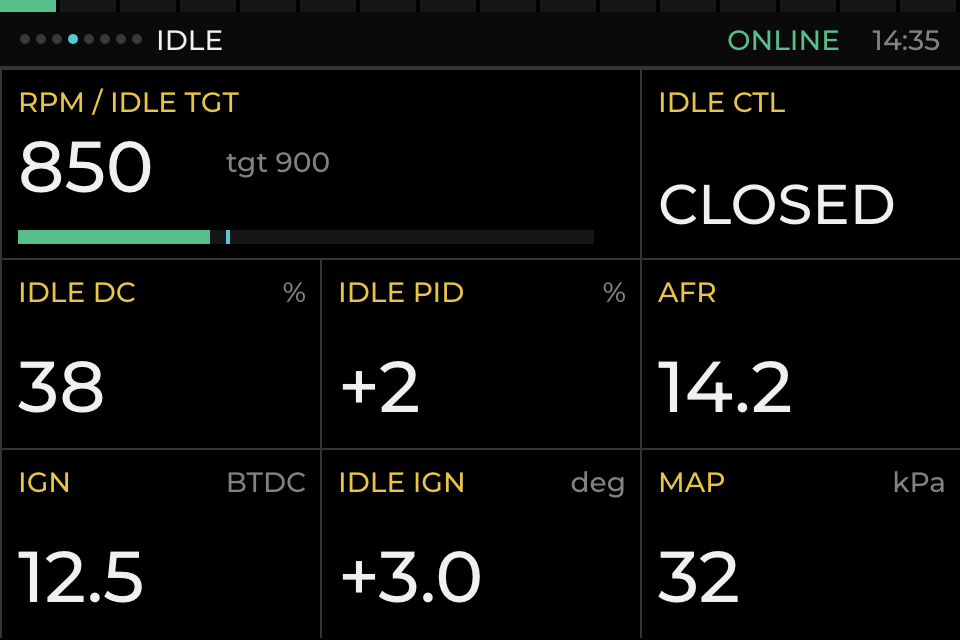
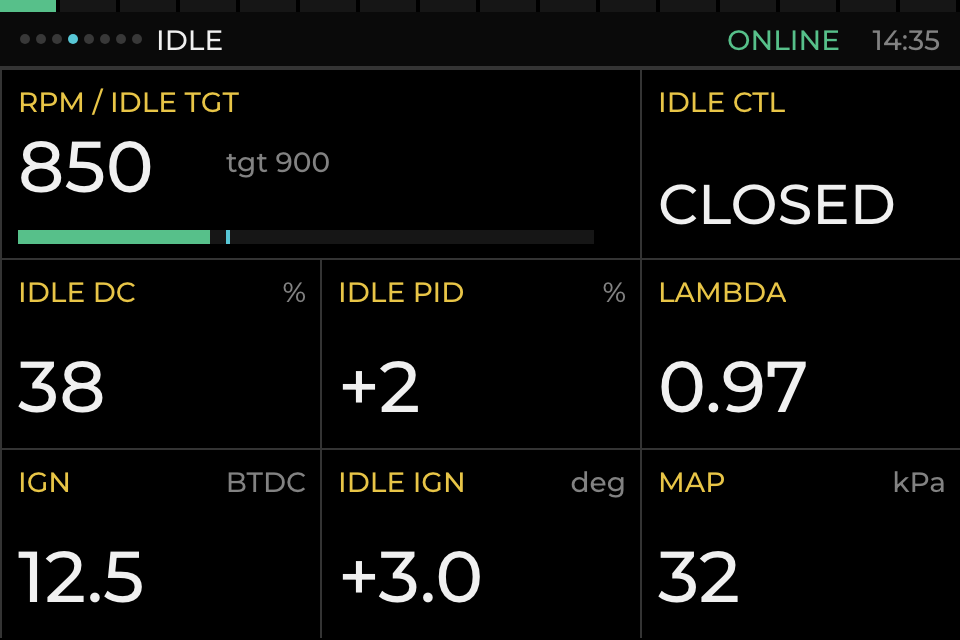
Redraw the mockups, describe the new cells, list what to test on the car
Diag's last trigger error moves onto the Errors row; a third line ran into
the CEL heading.

Changed region(s): [[0.6875, 0.5625, 0.8438, 0.6562], [0.6875, 0.4375, 0.8125, 0.4688]]

diff --git a/docs/mockup/render.py b/docs/mockup/render.py
@@ -156,8 +156,8 @@ def drive_page(rpm, rpm_fill, boost, mapkpa, boost_fill, clt, oil, lam, batt, oi
        label(302,12,"BOOST",14,CAPTION),
        label(302,32,boost,36,TEXT),
        label(302,76,f"bar&nbsp; MAP {mapkpa} kPa",14,DIM),
-       bar(302,94,162,10,min(74,74+boost_fill),abs(boost_fill),CYAN,marks=((74,1,DIM),(132,2,WARN))),
-       label(302,114,"Peak +1.06 bar",14,DIM),
+       bar(302,94,162,10,min(74,74+boost_fill),abs(boost_fill),CYAN,marks=((74,1,DIM),(124,2,WARN))),
+       label(302,114,"Peak +0.68 bar",14,DIM),
        tile(0,156,120,130,"CLT","C",clt,36),
        tile(120,156,120,130,"OIL P","bar",oil,36,sev=oil_sev),
        tile(240,156,120,130,"LAMBDA","",lam,36),
@@ -166,7 +166,7 @@ def drive_page(rpm, rpm_fill, boost, mapkpa, boost_fill, clt, oil, lam, batt, oi
 
 boards["Drive.dc.html"]=doc("DRIVE",
     "".join(chrome(("DRIVE",0), latch="! 2", clock="14:32", lit=7))
-    + drive_page("3450",150,"+0.84","184",50,"96","4.1","0.88","14.2"))
+    + drive_page("3450",150,"+0.62","164",46,"96","4.1","0.82","14.2"))
 
 boards["Parked.dc.html"]=doc("PARKED",
     "".join(chrome(("DRIVE",0), link=("OFFLINE",CRIT), alarm="ENGINE OFF",
@@ -174,13 +174,12 @@ boards["Parked.dc.html"]=doc("PARKED",
     + drive_page("0",0,"+0.00","100",0,"88","0.0","1.00","12.4",oil_sev="crit"))
 
 # ---------------- TUNE --------------------------------------------------
-p=[hero(0,0,"AFR / TARGET","","14.2","tgt 14.7",(144,-30,WARN),((144,1,DIM),))]
-p[0]=hero(0,0,"AFR / TARGET","","14.2","tgt 14.7",(114,30,GOOD),((144,1,DIM),))
-p.append(tile(COL*2,0,COL,ROW,"KNOCK","V","1.2",36))
+p=[hero(0,0,"LAMBDA / TARGET","","0.82","tgt 0.80",(144,24,GOOD),((144,1,DIM),))]
+p.append(tile(COL*2,0,COL,ROW,"KNOCK","x noise","0.24",36))
 p.append(tile(0,ROW,COL,ROW,"IGN","BTDC","18.5",36))
-p.append(tile(COL,ROW,COL,ROW,"INJ PW","ms","8.4",36))
+p.append(tile(COL,ROW,COL,ROW,"EGO CORR","%","-2.5",36))
 p.append(tile(COL*2,ROW,COL,ROW,"INJ DC","%","46",36))
-p.append(tile(0,ROW*2,COL,ROW,"MAP","kPa","184",36))
+p.append(tile(0,ROW*2,COL,ROW,"MAP","kPa","164",36))
 p.append(tile(COL,ROW*2,COL,ROW,"TPS","%","82",36))
 p.append(tile(COL*2,ROW*2,COL,ROW,"RPM","rpm","3450",36))
 boards["Tune.dc.html"]=doc("TUNE",
@@ -202,7 +201,7 @@ p=[hero(0,0,"RPM / IDLE TGT","","850","tgt 900",(0,96,GOOD),((104,2,CYAN),)),
    tile(COL*2,0,COL,ROW,"IDLE CTL","","CLOSED",28),
    tile(0,ROW,COL,ROW,"IDLE DC","%","38",36),
    tile(COL,ROW,COL,ROW,"IDLE PID","%","+2",36),
-   tile(COL*2,ROW,COL,ROW,"AFR","","14.2",36),
+   tile(COL*2,ROW,COL,ROW,"LAMBDA","","0.97",36),
    tile(0,ROW*2,COL,ROW,"IGN","BTDC","12.5",36),
    tile(COL,ROW*2,COL,ROW,"IDLE IGN","deg","+3.0",36),
    tile(COL*2,ROW*2,COL,ROW,"MAP","kPa","32",36)]
@@ -210,16 +209,16 @@ boards["Main.dc.html"]=doc("IDLE",
     "".join(chrome(("IDLE",3), clock="14:35", lit=1)) + page_wrap(p))
 
 # ---------------- BOOST -------------------------------------------------
-p=[hero(0,0,"MAP / BOOST TGT","kPa","224","tgt 220",(0,224,GOOD),((220,2,CYAN),)),
+p=[hero(0,0,"MAP / BOOST TGT","kPa","164","tgt 160",(0,215,GOOD),((209,2,CYAN),)),
    tile(COL*2,0,COL,ROW,"BOOST SET","","1",36),
    tile(0,ROW,COL,ROW,"BOOST DC","%","62",36),
    tile(COL,ROW,COL,ROW,"BOOST PID","%","+4",36),
    tile(COL*2,ROW,COL,ROW,"ERR COR","%","-1",36),
    tile(0,ROW*2,COL,ROW,"RPM","rpm","5820",36),
    tile(COL,ROW*2,COL,ROW,"TPS","%","100",36),
-   tile(COL*2,ROW*2,COL,ROW,"AFR","","11.8",36)]
+   tile(COL*2,ROW*2,COL,ROW,"LAMBDA","","0.80",36)]
 boards["Boost.dc.html"]=doc("BOOST",
-    "".join(chrome(("BOOST",4), alarm="KNOCK 2.4 V", alarm_color=WARN,
+    "".join(chrome(("BOOST",4), alarm="KNOCK 1.05", alarm_color=WARN,
                    latch="! 1", clock="14:41", lit=13)) + page_wrap(p))
 
 # ---------------- ALARMS ------------------------------------------------
@@ -229,7 +228,7 @@ cols=[(12,"TIME",None),(90,"SOURCE",None),(172,"VALUE",None),
 p=[frame(0,0,480,HDR,f"background: {BG}; border-bottom: 1px solid {LINE};")
    + "".join(label(x,TT,t,14,CAPTION,w=w,align="right" if w else "left") for x,t,w in cols)
    + "</div>"]
-events=[("14:41:02","KNOCK","2.4 V","5820","2.1 s","ACT","warn",True),
+events=[("14:41:02","KNOCK","1.05","5820","2.1 s","ACT","warn",True),
         ("14:38:51","OIL P","1.9 bar","6100","0.6 s","RTN","crit",False),
         ("14:33:10","INJ DC","94 %","6240","1.4 s","RTN","warn",False),
         ("14:21:44","LINK","stale","1180","3.0 s","RTN","warn",False),
@@ -254,7 +253,7 @@ p.append(frame(0,fy,480,FTR,f"background: {BG}; border-top: 1px solid {LINE};")
          + label(258,TT,"",14,DIM)
          + label(300,TT,"SINCE 13:59:04",14,DOTOFF,w=168,align="right") + "</div>")
 boards["Alarms.dc.html"]=doc("ALARMS",
-    "".join(chrome(("ALARMS",5), alarm="KNOCK 2.4 V", alarm_color=WARN,
+    "".join(chrome(("ALARMS",5), alarm="KNOCK 1.05", alarm_color=WARN,
                    latch="! 5", clock="14:41", lit=13)) + page_wrap(p))
 
 # ---------------- DIAG --------------------------------------------------
@@ -266,9 +265,9 @@ L=P
 p.append(label(L,P,"SERIAL LINK",14,CAPTION))
 for i,(n,v) in enumerate([("State","ONLINE"),("Age","12 ms"),("Updates","482 119"),("Bad frames","0")]):
     p.append(diag_row(L,P+18+i*RH2,n,v))
-p.append(label(L,P+94,"LATCHED THIS RUN",14,CAPTION))
-for i,t in enumerate(["OIL P 1.9 bar @ 6100","KNOCK 2.4 V @ 5820",""]):
-    p.append(label(L,P+112+i*14,t,14,DIM))
+p.append(label(L,P+94,"TRIGGER",14,CAPTION))
+p.append(diag_row(L,P+112,"Sync","SYNCED",GOOD))
+p.append(diag_row(L,P+112+RH2,"Errors","1  MISSING TOOTH",WARN))
 p.append(label(L,P+162,"CEL FLAGS",14,CAPTION))
 p.append(diag_row(L,P+180,"Raw","0x0000"))
 for i,n in enumerate(["CLT","IAT","MAP","WBO","EGT1","EGT2","EGT AL","KNOCK","FF SENS","DBW","FPR"]):
@@ -277,12 +276,12 @@ R2=CW+P
 p.append(label(R2,P,"PEAKS THIS RUN",14,CAPTION))
 peaks=[("RPM max","6240"),("MAP max","224"),("CLT max","103"),("IAT max","44"),
        ("Oil P max","5.2"),("Oil P min","1.9"),("Fuel P max","3.4"),("Fuel P min","2.9"),
-       ("Lambda min","0.78"),("Knock max","2.4"),("Inj DC max","94")]
+       ("Lambda min","0.78"),("Knock max","0.31"),("Inj DC max","94")]
 for i,(n,v) in enumerate(peaks):
     p.append(diag_row(R2,P+18+i*RH2,n,v))
 p.append(label(R2,P+208,"SERVICE AP",14,CAPTION))
 p.append(diag_row(R2,P+226,"Network","EcuDash"))
-p.append(diag_row(R2,P+243,"Key","carina1g"))
+p.append(diag_row(R2,P+243,"Key","ecudash1"))
 boards["Diag.dc.html"]=doc("DIAG",
     "".join(chrome(("DIAG",6), latch="! 5", clock="14:44")) + page_wrap(p))
 
@@ -290,7 +289,7 @@ boards["Diag.dc.html"]=doc("DIAG",
 STRIP=24; CATW=110; CATH=44; RW=480-CATW; SRH=32
 p=[frame(0,0,480,STRIP,f"background: {BG}; border-bottom: 1px solid {LINE};")
    + midlabel(10,0,STRIP,"STORED IN FLASH",14,DIM)
-   + midlabel(0,0,STRIP,f"{ARROW_UP} 5-12/18 {ARROW_DOWN}",14,DIM,w=480,align="center")
+   + midlabel(0,0,STRIP,f"{ARROW_UP} 5-12/20 {ARROW_DOWN}",14,DIM,w=480,align="center")
    + midlabel(0,0,STRIP,"ENGINE OFF",14,DIM,w=470,align="right") + "</div>"]
 p.append(frame(0,STRIP,CATW,286-STRIP,f"border-right: 1px solid {LINE};")+"</div>")
 cats=["Alarms","Limits","Shift","Display","Log"]
@@ -302,7 +301,7 @@ for i,name in enumerate(cats):
     p.append(midlabel(12,y,CATH,name,14,TEXT if sel else DIM))
 rows=[("Lean warn","0.90",""),("Lean crit","0.85",""),("Batt warn","12.2","V"),
       ("Batt crit","11.8","V"),("Charge warn","14.8","V"),("Charge crit","15.2","V"),
-      ("Knock warn","2.0","V"),("Knock crit","3.0","V")]
+      ("Knock warn","0.70","x"),("Knock crit","1.00","x")]
 for i,(n,v,u) in enumerate(rows):
     y=STRIP+i*SRH
     p.append(frame(CATW,y,RW,SRH,f"border-bottom: 1px solid {LINE};")+"</div>")

diff --git a/src/diagnostics/diagnostic_screen.cpp b/src/diagnostics/diagnostic_screen.cpp
@@ -64,11 +64,9 @@ void DiagnosticScreen::create(lv_obj_t* parent) {
     // unexpected missing tooth on 10 September.
     makeHeading(left, 94, "TRIGGER");
     sync_ = makeRow(left, 112, "Sync");
+    // The count and the last error share a row: a third line ran into the
+    // CEL heading below.
     triggerErrors_ = makeRow(left, 112 + kRowHeight, "Errors");
-    lastTriggerError_ = lv_label_create(left);
-    setLabelText(lastTriggerError_, "");
-    lv_obj_set_style_text_color(lastTriggerError_, theme::dim(), 0);
-    lv_obj_align(lastTriggerError_, LV_ALIGN_TOP_RIGHT, 0, 112 + kRowHeight * 2);
 
     makeHeading(left, 162, "CEL FLAGS");
     cel_ = makeRow(left, 180, "Raw");
@@ -188,21 +186,19 @@ void DiagnosticScreen::update(const EngineDataModel& model,
     }
     lv_obj_set_style_text_color(sync_, syncColor, 0);
 
-    snprintf(text, sizeof(text), "%u", static_cast<unsigned>(peaks.triggerErrors));
-    setLabelText(triggerErrors_, text);
-    lv_obj_set_style_text_color(triggerErrors_,
-                                peaks.triggerErrors > 0 ? theme::warn() : theme::text(), 0);
-
     if (peaks.triggerErrors == 0) {
-        setLabelText(lastTriggerError_, "");
+        setLabelText(triggerErrors_, "0");
     } else {
         uint8_t bit = 0;
         while (bit < 8 && !((peaks.lastTriggerError >> bit) & 0x1)) {
             ++bit;
         }
-        snprintf(text, sizeof(text), "last: %s", ignErrorBitName(bit));
-        setLabelText(lastTriggerError_, text);
+        snprintf(text, sizeof(text), "%u  %s", static_cast<unsigned>(peaks.triggerErrors),
+                 ignErrorBitName(bit));
+        setLabelText(triggerErrors_, text);
     }
+    lv_obj_set_style_text_color(triggerErrors_,
+                                peaks.triggerErrors > 0 ? theme::warn() : theme::text(), 0);
 
     if (!peaks.seeded) {
         for (int i = 0; i < 11; ++i) {

diff --git a/include/diagnostic_screen.hpp b/include/diagnostic_screen.hpp
@@ -32,8 +32,7 @@ private:
     // records those properly; nothing else on the dash says whether the ECU
     // is keeping sync.
     lv_obj_t* sync_ = nullptr;
-    lv_obj_t* triggerErrors_ = nullptr;
-    lv_obj_t* lastTriggerError_ = nullptr;
+    lv_obj_t* triggerErrors_ = nullptr;   // count, and the last one named
 
     // Peaks column.
     lv_obj_t* peakValues_[11] = {};

diff --git a/README.md b/README.md
@@ -41,13 +41,13 @@ renders this way.
 
 | | |
 |---|---|
-| **1 · Drive** — RPM, boost with peak hold, CLT, oil pressure, lambda, battery | **2 · Tune** — AFR against target, knock, ignition, injector PW and duty, MAP, TPS, RPM |
+| **1 · Drive** — RPM, boost with peak hold, CLT, oil pressure, mixture, battery | **2 · Tune** — mixture against target, knock against engine noise, ignition, EGO trim, injector duty, MAP, TPS, RPM |
 | ![Drive](docs/mockup/1-drive.png) | ![Tune](docs/mockup/2-tune.png) |
 | **3 · Temps** — CLT, IAT, ECU temp, oil pressure, fuel pressure, ΔFPR | **4 · Idle** — RPM against the idle target, valve duty, the PID's share, timing trim |
 | ![Temps](docs/mockup/3-temps.png) | ![Idle](docs/mockup/4-idle.png) |
 | **5 · Boost** — MAP against the boost target, solenoid duty, PID and error correction | **6 · Alarms** — everything that tripped this run, newest first, with the time |
 | ![Boost](docs/mockup/5-boost.png) | ![Alarms](docs/mockup/6-alarms.png) |
-| **7 · Diag** — link state, frame age, counters, what latched, CEL word, run peaks | **8 · Setup** — alarm limits and behaviour, shift points, brightness, logging |
+| **7 · Diag** — link state, frame age, counters, trigger sync and errors, CEL word, run peaks | **8 · Setup** — alarm limits and behaviour, shift points, brightness, logging |
 | ![Diag](docs/mockup/7-diag.png) | ![Setup](docs/mockup/8-setup.png) |
 
 Idle and Boost are pit work rather than driving pages, which is why they sit
@@ -76,6 +76,11 @@ has no clock in its own instrument cluster, so this is the only one.
 The page changes only when you swipe it. There is no idle timeout returning to
 Drive: on the car it moved the screen out from under you while you were still
 reading it.
+
+Mixture reads in lambda or AFR — one choice on the setup page, applied to
+every page. A cell whose sensor the ECU has flagged as failed reads `ERR`
+rather than the fallback value the ECU substitutes, and with the link down the
+live pages read `--` rather than the last frame that arrived.
 
 An out-of-range value lights its own cell — amber for a warning, red for
 critical — and names itself in the status bar. Nothing but a swipe ever changes

diff --git a/docs/test-results.md b/docs/test-results.md
@@ -5,6 +5,37 @@ entry that only says "worked" is worth very little later.
 
 ---
 
+## 2026-09-24 — review changes, not yet on the car
+
+Built, not run. Everything below changed on the bench and needs the car.
+
+- **Key off with the engine running.** The status bar should read
+  `ENGINE OFF`, no cell should stay red, and the live pages should read `--`.
+  Before, the frozen last frame kept the alarms armed.
+- **Link with garbage on it.** A wrong baud rate or noise on RX must stay
+  `OFFLINE`; it used to read `ONLINE` on bytes alone. Diag's Updates now
+  counts frames.
+- **Boost at rest.** Engine stopped, key on: Drive should read about +0.00
+  bar. It used to read +0.02/+0.03 from a fixed 100 kPa reference.
+- **Settings migration.** The first boot on this build prints `settings:
+  migrated from version 4`, and brightness, shift points and limits must be
+  what they were. Only the knock limits reset (0.70 / 1.00).
+- **IAT connector off.** The IAT cell should read `ERR`, the status bar
+  `CEL IAT`. This also confirms the CEL bit order, which is still inferred.
+- **Knock ratio.** Tune's KNOCK should idle around 0.2. Compare against
+  knockValue / engineNoise in the log.
+- **Overboost.** Lower Setup > Limits > Boost warn below the car's boost and
+  confirm Drive's boost bar and number turn amber. No log from this car has
+  been under boost yet, so 0.7 / 0.9 bar are starting points only.
+- **Mixture AFR.** Toggle Setup > Display > Mixture AFR: Drive, Tune, Idle and
+  Boost should all switch unit and caption.
+- **Diag trigger.** Sync should read `SYNCED` running; errors should stay 0 on
+  a clean run.
+- **Second start of the day.** Peaks on Diag and the run summary should start
+  from zero on each engine start, not carry the last drive over.
+
+---
+
 ## 2026-09-19 — second service-page session, three defects
 
 Observed by using the dashboard, all three fixed in this session. The logs page
